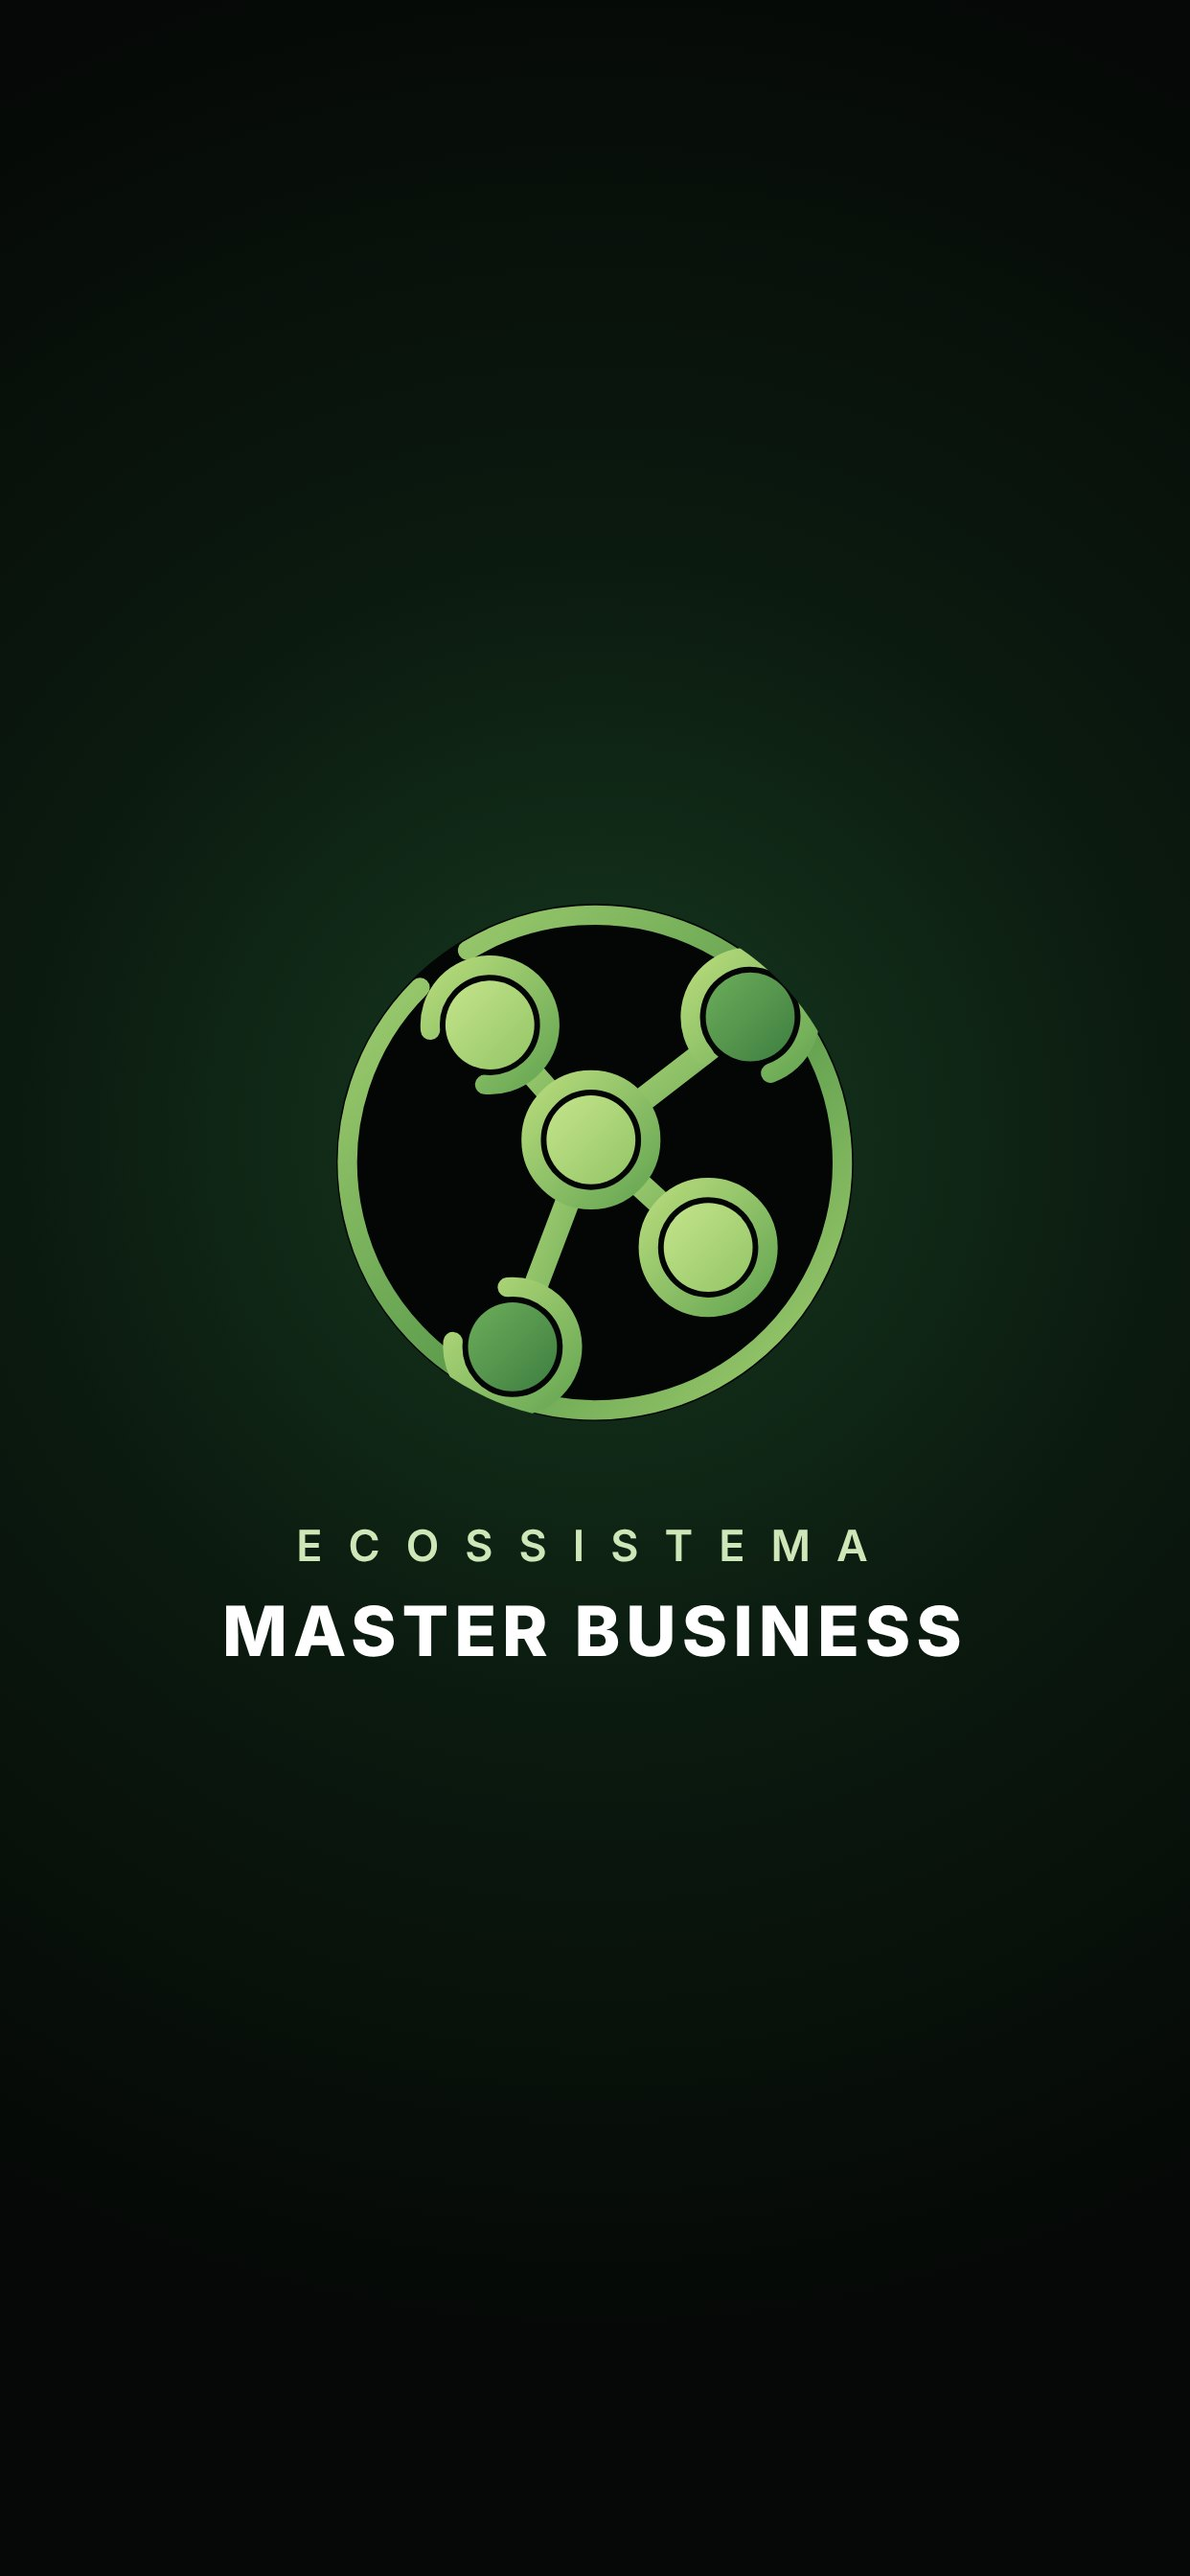
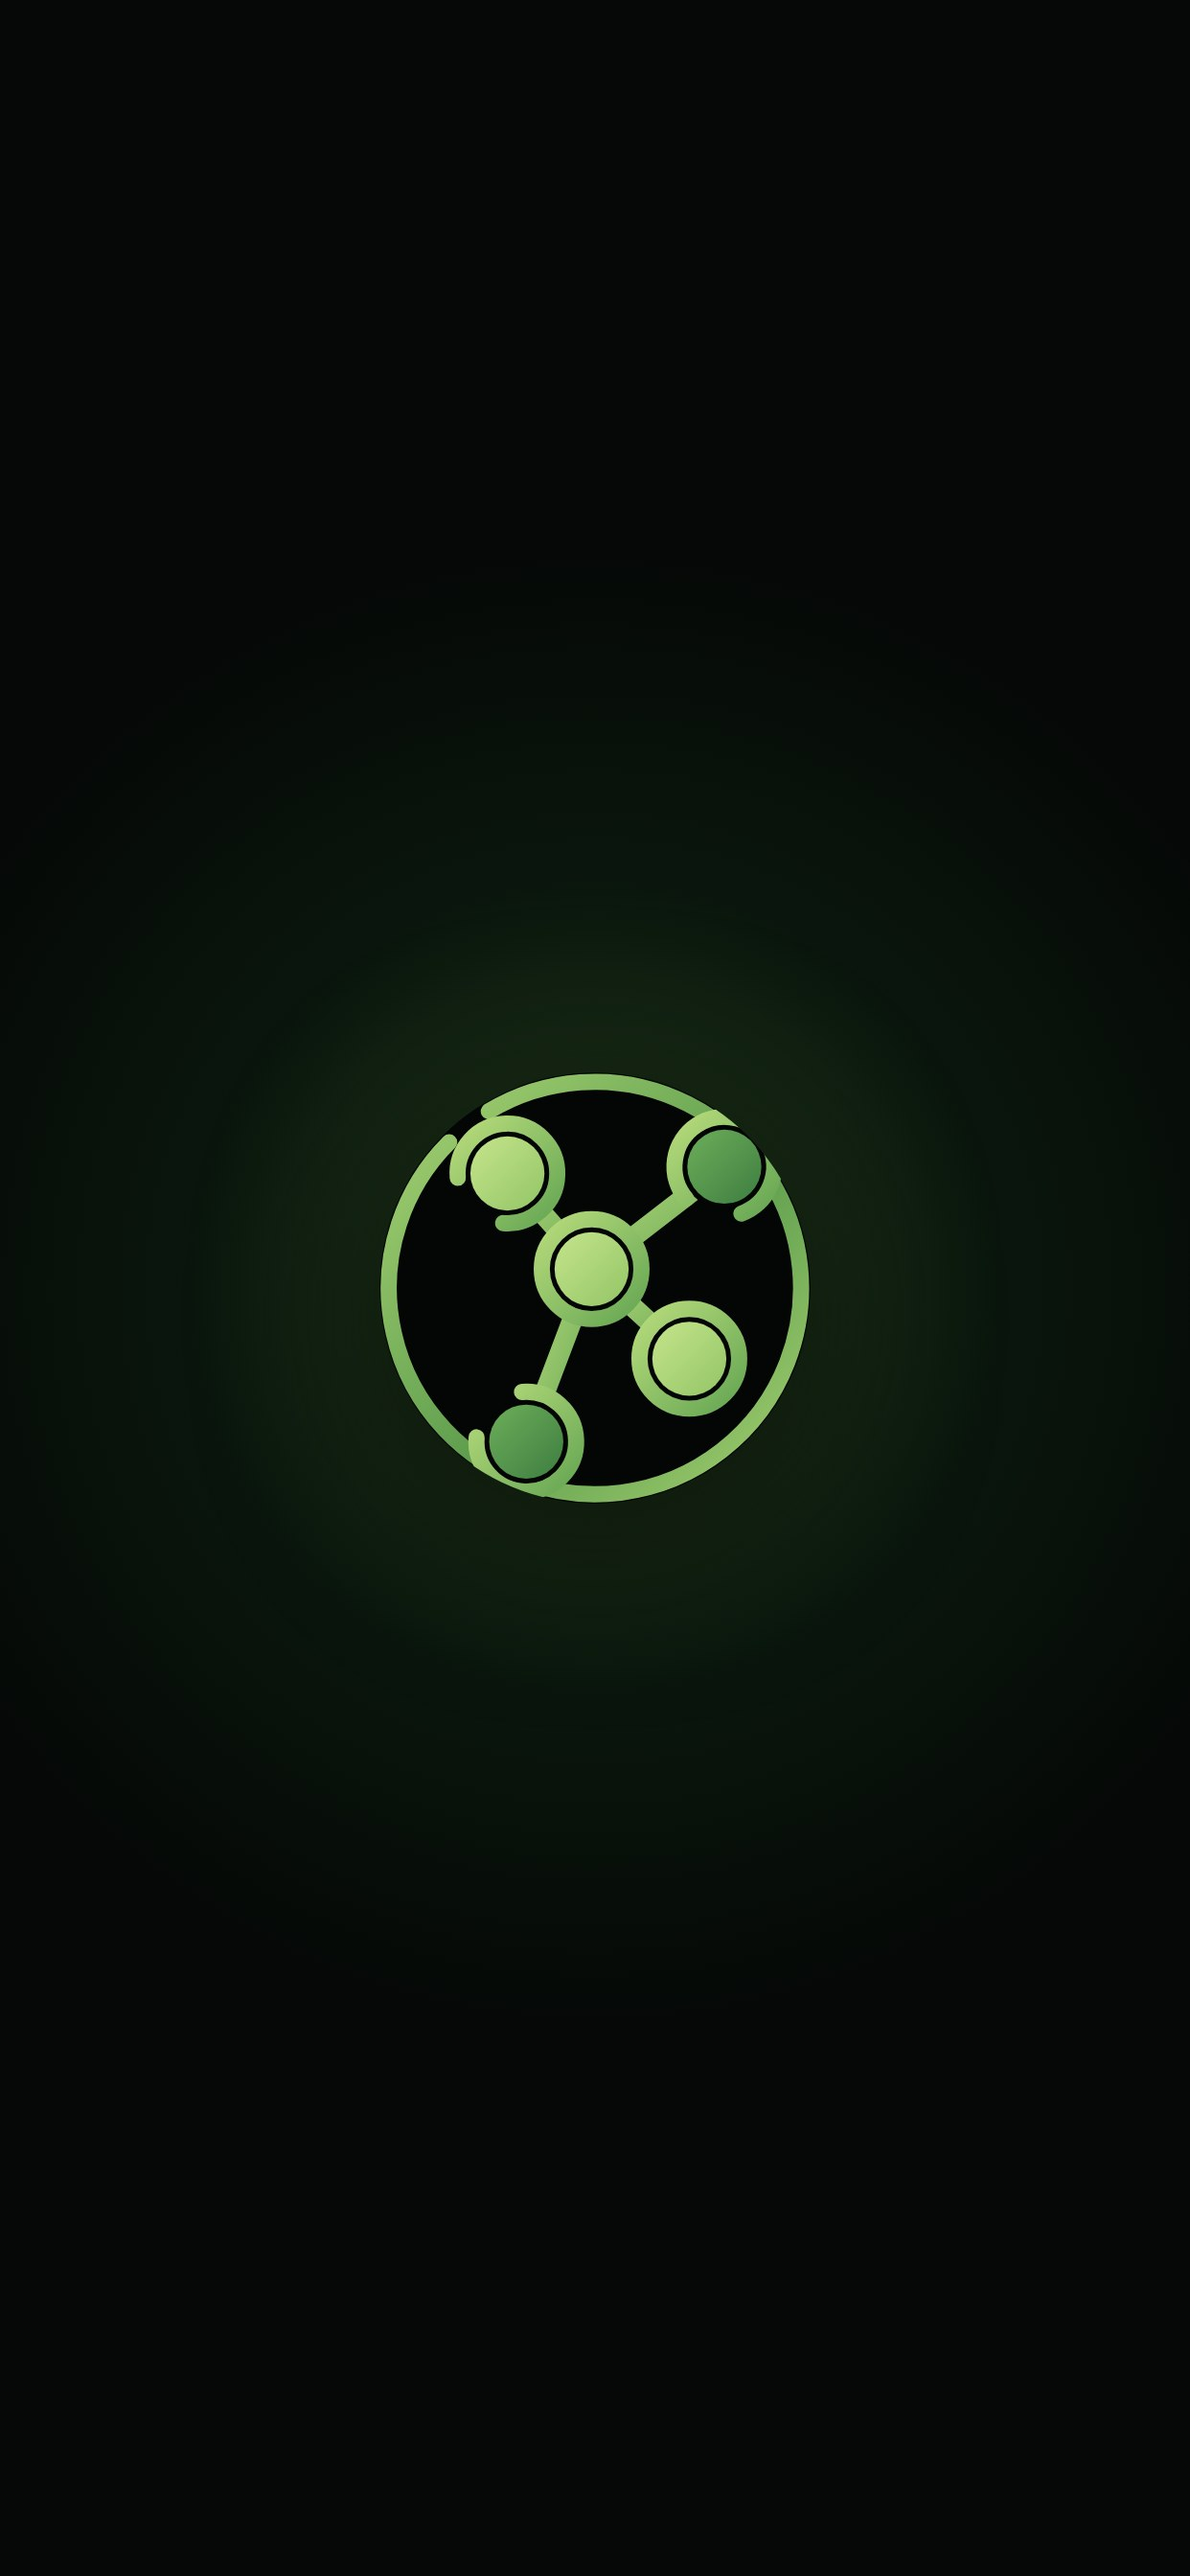
Abertura do app centralizada e mais lenta (continua a abertura do sistema), ícone quadrado com fundo verde-escuro da marca; galeria: arquivo de um dia não se repete nos dias seguintes; vídeo da imersão; função importar-midia
Claude-Session: https://claude.ai/code/session_0181QDo76DaA16WBLizzFEWH

Changed region(s): [[0.1836, 0.3438, 0.8261, 0.6562]]

diff --git a/index.html b/index.html
@@ -24,22 +24,26 @@
     <title>Portal de Membros – Ecossistema Master Business</title>
     <!-- Tela de abertura do app instalado (some sozinha quando o portal carrega). -->
     <style>
-      #abertura{ position:fixed; inset:0; z-index:2147483000; display:none; flex-direction:column; align-items:center; justify-content:center;
-        background:radial-gradient(circle at 50% 44%, #163a20 0, #0b1a0f 200px, #050806 420px); transition:opacity .45s ease, visibility .45s ease;
-        font-family:-apple-system,BlinkMacSystemFont,"SF Pro Display","Inter","Segoe UI",system-ui,sans-serif }
-      @media (display-mode: standalone), (display-mode: fullscreen){ #abertura{ display:flex } }
-      html.app-instalado #abertura{ display:flex }
+      /* Logo exatamente no centro da tela: continua de onde a abertura do próprio Android/iPhone parou. */
+      #abertura{ position:fixed; inset:0; z-index:2147483000; display:none; background:#050806; transition:opacity .8s ease, visibility .8s ease;
+        font-family:-apple-system,BlinkMacSystemFont,"SF Pro Display","Inter","Segoe UI",system-ui,sans-serif; overflow:hidden }
+      @media (display-mode: standalone), (display-mode: fullscreen){ #abertura{ display:block } }
+      html.app-instalado #abertura{ display:block }
       #abertura.saindo{ opacity:0; visibility:hidden }
-      #abertura .ab-anel{ position:relative; width:168px; height:168px; animation:ab-entra .9s cubic-bezier(.2,.8,.2,1) both }
-      #abertura .ab-anel::before{ content:""; position:absolute; inset:-34px; border-radius:50%; background:radial-gradient(circle, rgba(140,210,100,.32) 0, rgba(140,210,100,0) 68%); animation:ab-brilho 2.2s ease-in-out .5s infinite }
-      #abertura .ab-logo{ position:relative; width:100%; height:100%; display:block }
-      #abertura .ab-1{ margin-top:30px; color:#cfe7b8; letter-spacing:.6em; padding-left:.6em; font-size:13px; font-weight:600; animation:ab-texto .8s ease .35s both }
-      #abertura .ab-2{ margin-top:6px; color:#fff; letter-spacing:.08em; font-size:22px; font-weight:800; animation:ab-texto .8s ease .5s both }
-      #abertura .ab-barra{ margin-top:34px; width:120px; height:3px; border-radius:3px; background:rgba(255,255,255,.08); overflow:hidden; animation:ab-texto .6s ease .7s both }
-      #abertura .ab-barra i{ display:block; width:40%; height:100%; border-radius:3px; background:linear-gradient(90deg,#6fae5b,#c5e48b); animation:ab-corre 1.1s ease-in-out infinite }
-      @keyframes ab-entra{ from{ opacity:0; transform:scale(.82) } to{ opacity:1; transform:scale(1) } }
-      @keyframes ab-brilho{ 0%,100%{ opacity:.55; transform:scale(.96) } 50%{ opacity:1; transform:scale(1.06) } }
-      @keyframes ab-texto{ from{ opacity:0; transform:translateY(8px) } to{ opacity:1; transform:none } }
+      #abertura .ab-luz{ position:absolute; left:50%; top:50%; width:520px; height:520px; margin:-260px 0 0 -260px; border-radius:50%;
+        background:radial-gradient(circle, rgba(120,200,90,.30) 0%, rgba(40,110,55,.14) 38%, rgba(5,8,6,0) 70%); animation:ab-luz 3.2s ease-in-out .3s infinite both }
+      #abertura .ab-anel{ position:absolute; left:50%; top:50%; width:150px; height:150px; margin:-75px 0 0 -75px; animation:ab-entra 1.6s cubic-bezier(.16,1,.3,1) both }
+      #abertura .ab-logo{ width:100%; height:100%; display:block; filter:drop-shadow(0 10px 30px rgba(0,0,0,.6)) }
+      #abertura .ab-textos{ position:absolute; left:0; right:0; top:calc(50% + 104px); text-align:center }
+      #abertura .ab-1{ color:#cfe7b8; letter-spacing:.62em; padding-left:.62em; font-size:12.5px; font-weight:600; animation:ab-texto 1.2s ease 1s both }
+      #abertura .ab-2{ margin-top:8px; color:#fff; letter-spacing:.1em; padding-left:.1em; font-size:23px; font-weight:800; animation:ab-texto 1.2s ease 1.35s both }
+      #abertura .ab-3{ margin-top:10px; color:rgba(207,231,184,.7); font-size:12px; letter-spacing:.04em; animation:ab-texto 1.2s ease 1.8s both }
+      #abertura .ab-barra{ position:absolute; left:50%; bottom:calc(env(safe-area-inset-bottom, 0px) + 56px); width:110px; margin-left:-55px; height:3px; border-radius:3px;
+        background:rgba(255,255,255,.08); overflow:hidden; animation:ab-texto .8s ease 2s both }
+      #abertura .ab-barra i{ display:block; width:40%; height:100%; border-radius:3px; background:linear-gradient(90deg,#6fae5b,#c5e48b); animation:ab-corre 1.5s ease-in-out infinite }
+      @keyframes ab-entra{ 0%{ opacity:.85; transform:scale(.94) } 100%{ opacity:1; transform:scale(1) } }
+      @keyframes ab-luz{ 0%,100%{ opacity:.6; transform:scale(.92) } 50%{ opacity:1; transform:scale(1.06) } }
+      @keyframes ab-texto{ from{ opacity:0; transform:translateY(10px); filter:blur(4px) } to{ opacity:1; transform:none; filter:none } }
       @keyframes ab-corre{ from{ transform:translateX(-110%) } to{ transform:translateX(260%) } }
       @media (prefers-reduced-motion: reduce){ #abertura *, #abertura *::before{ animation:none !important } }
     </style>
@@ -47,6 +51,7 @@
   </head>
   <body>
     <div id="abertura" aria-hidden="true">
+      <div class="ab-luz"></div>
       <div class="ab-anel"><svg xmlns="http://www.w3.org/2000/svg" viewBox="0 0 640 640" class="ab-logo" aria-hidden="true">
   <defs>
     <linearGradient id="g" x1="0" y1="0" x2="1" y2="1"><stop offset="0" stop-color="#B7DB7C"/><stop offset="1" stop-color="#66A653"/></linearGradient>
@@ -76,8 +81,11 @@
     <circle cx="315" cy="292" r="55" fill="url(#gc)"/>
   </g>
 </svg></div>
-      <div class="ab-1">ECOSSISTEMA</div>
-      <div class="ab-2">MASTER BUSINESS</div>
+      <div class="ab-textos">
+        <div class="ab-1">ECOSSISTEMA</div>
+        <div class="ab-2">MASTER BUSINESS</div>
+        <div class="ab-3">Conectando negócios · Multiplicando resultados</div>
+      </div>
       <div class="ab-barra"><i></i></div>
     </div>
     <div id="root"></div>

diff --git a/supabase/functions/importar-midia/index.ts b/supabase/functions/importar-midia/index.ts
@@ -1,0 +1,37 @@
+// Função "importar-midia": guarda no armazenamento do portal (bucket portal-midia) vídeos/imagens que chegam
+// CRIPTOGRAFADOS (AES-GCM: 12 bytes de nonce + conteúdo) num link temporário. Só quem tem a chave (enviada
+// nesta chamada, nunca guardada) consegue abrir. Só chamada interna (cabeçalho x-portal-interno).
+// Entrada: { chave, itens: [{ url, caminho, tipo }] }  ->  [{ caminho, publico }]
+import { createClient } from "jsr:@supabase/supabase-js@2";
+import { decodeBase64 } from "jsr:@std/encoding@1/base64";
+
+const resp = (s: number, c: unknown) => new Response(JSON.stringify(c), { status: s, headers: { "Content-Type": "application/json" } });
+const URL_BASE = Deno.env.get("SUPABASE_URL")!;
+const db = createClient(URL_BASE, Deno.env.get("SUPABASE_SERVICE_ROLE_KEY")!, { auth: { persistSession: false } });
+
+Deno.serve(async (req) => {
+  if (req.method !== "POST") return resp(405, { erro: "método não permitido" });
+  const interno = req.headers.get("x-portal-interno");
+  if (!interno) return resp(401, { erro: "somente chamada interna" });
+  const { data: valido } = await db.rpc("token_interno_valido", { p_token: interno });
+  if (valido !== true) return resp(401, { erro: "código interno inválido" });
+  let c: { chave?: string; itens?: { url: string; caminho: string; tipo: string }[] } = {};
+  try { c = await req.json(); } catch { /* vazio */ }
+  if (!c.chave) return resp(400, { erro: "informe a chave" });
+  const chave = await crypto.subtle.importKey("raw", decodeBase64(c.chave), "AES-GCM", false, ["decrypt"]);
+  const resultados = [];
+  for (const it of (c.itens || []).slice(0, 4)) {
+    try {
+      const r = await fetch(it.url);
+      if (!r.ok) { resultados.push({ caminho: it.caminho, ok: false, erro: `download ${r.status}` }); continue; }
+      const cifrado = new Uint8Array(await r.arrayBuffer());
+      const bytes = new Uint8Array(await crypto.subtle.decrypt({ name: "AES-GCM", iv: cifrado.slice(0, 12) }, chave, cifrado.slice(12)));
+      const { error } = await db.storage.from("portal-midia").upload(it.caminho, bytes, { contentType: it.tipo, upsert: true, cacheControl: "31536000" });
+      if (error) { resultados.push({ caminho: it.caminho, ok: false, erro: error.message }); continue; }
+      resultados.push({ caminho: it.caminho, ok: true, bytes: bytes.length, publico: `${URL_BASE}/storage/v1/object/public/portal-midia/${it.caminho}` });
+    } catch (e) {
+      resultados.push({ caminho: it.caminho, ok: false, erro: e instanceof Error ? e.message : String(e) });
+    }
+  }
+  return resp(200, { resultados });
+});

diff --git a/supabase/functions/galeria-indexar/index.ts b/supabase/functions/galeria-indexar/index.ts
@@ -71,16 +71,18 @@ Deno.serve(async (req) => {
     itens.push(...its);
     resumo[`${d.titulo} · ${p.nome}`] = { fotos: its.filter((i) => i.tipo === "foto").length, videos: its.filter((i) => i.tipo === "video").length };
   }
-  // Cópias repetidas (o mesmo arquivo enviado na pasta de mais de um dia) aparecem uma vez só, no primeiro dia.
-  // A lista "conflitos" mostra onde isso aconteceu, para quem organiza o Drive conferir o dia certo.
+  // Regra do dia: o que está num dia fica nesse dia. Se o mesmo arquivo aparece de novo num dia seguinte
+  // (Dia 2 ou Dia 3), ele não é repetido, não importa quem fez. Dentro do mesmo dia nada é removido.
   let repetidos = 0;
   const vistos = new Map<string, Item>();
+  const diaDe = new Map<string, string>();
   const conflitos: Record<string, number> = {};
   for (const it of itens) {
-    const chave = `${it.credito}|${it.tipo}|${it.nome}`;
-    const ja = vistos.get(chave);
-    if (ja) { repetidos++; const k = `${it.credito}: ${ja.dia} e ${it.dia}`; conflitos[k] = (conflitos[k] || 0) + 1; continue; }
-    vistos.set(chave, it);
+    const arquivo = `${it.tipo}|${it.nome.toLowerCase()}`;
+    const primeiroDia = diaDe.get(arquivo);
+    if (primeiroDia && primeiroDia !== it.dia) { repetidos++; const k = `${primeiroDia} repetido no ${it.dia}`; conflitos[k] = (conflitos[k] || 0) + 1; continue; }
+    diaDe.set(arquivo, it.dia);
+    vistos.set(`${it.id}`, it);
   }
   const final = [...vistos.values()];
   final.sort((a, b) => a.dia.localeCompare(b.dia) || a.nome.localeCompare(b.nome, "pt-BR", { numeric: true }));

diff --git a/src/main.tsx b/src/main.tsx
@@ -14,11 +14,11 @@ createRoot(document.getElementById('root')!).render(
 )
 
 // Tira a tela de abertura do app instalado quando o portal já desenhou a primeira tela
-// (fica no mínimo ~1,2 s para a marca aparecer com calma; no navegador comum ela nem aparece).
+// (fica no mínimo ~3,4 s para a marca aparecer com calma; no navegador comum ela nem aparece).
 const abertura = document.getElementById("abertura");
 if (abertura) {
   requestAnimationFrame(() => requestAnimationFrame(() => {
-    const espera = Math.max(0, 1200 - performance.now()); // performance.now() = tempo desde que o app abriu
-    window.setTimeout(() => { abertura.classList.add("saindo"); window.setTimeout(() => abertura.remove(), 500); }, getComputedStyle(abertura).display === "none" ? 0 : espera);
+    const espera = Math.max(0, 3400 - performance.now()); // performance.now() = tempo desde que o app abriu
+    window.setTimeout(() => { abertura.classList.add("saindo"); window.setTimeout(() => abertura.remove(), 900); }, getComputedStyle(abertura).display === "none" ? 0 : espera);
   }));
 }
